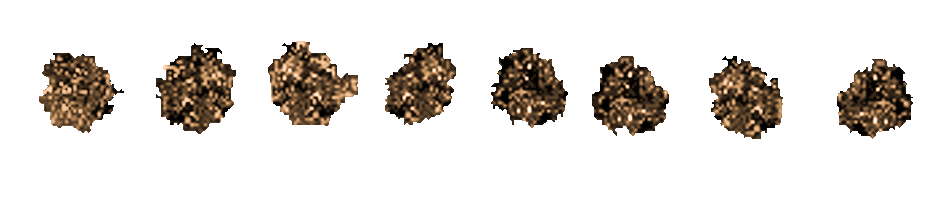
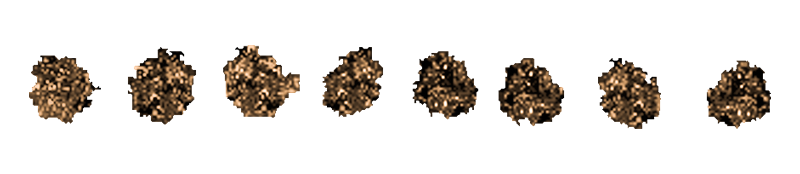
making tumbleweed animation

diff --git a/src/view/HuntingView.java b/src/view/HuntingView.java
@@ -176,6 +176,10 @@ public class HuntingView extends Scene {
     for (int i = 0; i < positions.length; ++i) {
       layers.getChildren().add(positions[i]);
     }
+    LargeTumbleweedSprite tumble = new LargeTumbleweedSprite();
+    BorderPane pane = new BorderPane(tumble.getSprite());
+    layers.getChildren().add(pane);
+    tumble.play();
     layers.getChildren().add(bullets);
     layers.getChildren().add(canvas);
     root.setCenter(layers);
@@ -350,6 +354,90 @@ public class HuntingView extends Scene {
       img = upright;
     } else if (angle >= 345 && angle <= 360) {
       img = right;
+    }
+  }
+
+  private class SmallTumbleweedSprite {
+    private final Image IMAGE = new Image((AZTrailView.controller.getHunted())
+      ? "file:view/assets/graphics/tumbleweedmoving-hunted.png"
+      : "file:view/assets/graphics/tumbleweedmoving.png",
+      (int) (288), (int) (41), true, false);
+    private static final int COLUMNS  =   5;
+    private static final int COUNT    =   5;
+    private static final int OFFSET_X =   0;
+    private static final int OFFSET_Y =   0;
+    private static final int WIDTH    =  (int) (36);
+    private static final int HEIGHT   =  (int) (41);
+    private final Animation animation;
+    private ImageView imageView;
+
+    public SmallTumbleweedSprite() {
+      this.imageView = new ImageView(IMAGE);
+      this.imageView.setViewport(new Rectangle2D(OFFSET_X, OFFSET_Y, WIDTH,
+        HEIGHT));
+
+      this.animation = new SpriteAnimation(
+        this.imageView,
+        Duration.millis(1000),
+        COUNT, COLUMNS,
+        OFFSET_X, OFFSET_Y,
+        WIDTH, HEIGHT
+      );
+      this.animation.setCycleCount(8);
+    }
+
+    public void play() {
+      this.animation.play();
+    }
+
+    public void pause() {
+      this.animation.pause();
+    }
+
+    public ImageView getSprite() {
+      return this.imageView;
+    }
+  }
+
+  private class LargeTumbleweedSprite {
+    private final Image IMAGE = new Image((AZTrailView.controller.getHunted())
+      ? "file:view/assets/graphics/tumbleweedtest.png"
+      : "file:view/assets/graphics/tumbleweedtest.png",
+      (int) (192), (int) (144), true, false);
+    private static final int COLUMNS  =   3;
+    private static final int COUNT    =   2;
+    private static final int OFFSET_X =   0;
+    private static final int OFFSET_Y =   0;
+    private static final int WIDTH    =  (int) (72);
+    private static final int HEIGHT   =  (int) (64);
+    private final Animation animation;
+    private ImageView imageView;
+
+    public LargeTumbleweedSprite() {
+      this.imageView = new ImageView(IMAGE);
+      this.imageView.setViewport(new Rectangle2D(OFFSET_X, OFFSET_Y, WIDTH,
+        HEIGHT));
+
+      this.animation = new SpriteAnimation(
+        this.imageView,
+        Duration.millis(1000),
+        COUNT, COLUMNS,
+        OFFSET_X, OFFSET_Y,
+        WIDTH, HEIGHT
+      );
+      this.animation.setCycleCount(8);
+    }
+
+    public void play() {
+      this.animation.play();
+    }
+
+    public void pause() {
+      this.animation.pause();
+    }
+
+    public ImageView getSprite() {
+      return this.imageView;
     }
   }
 }
